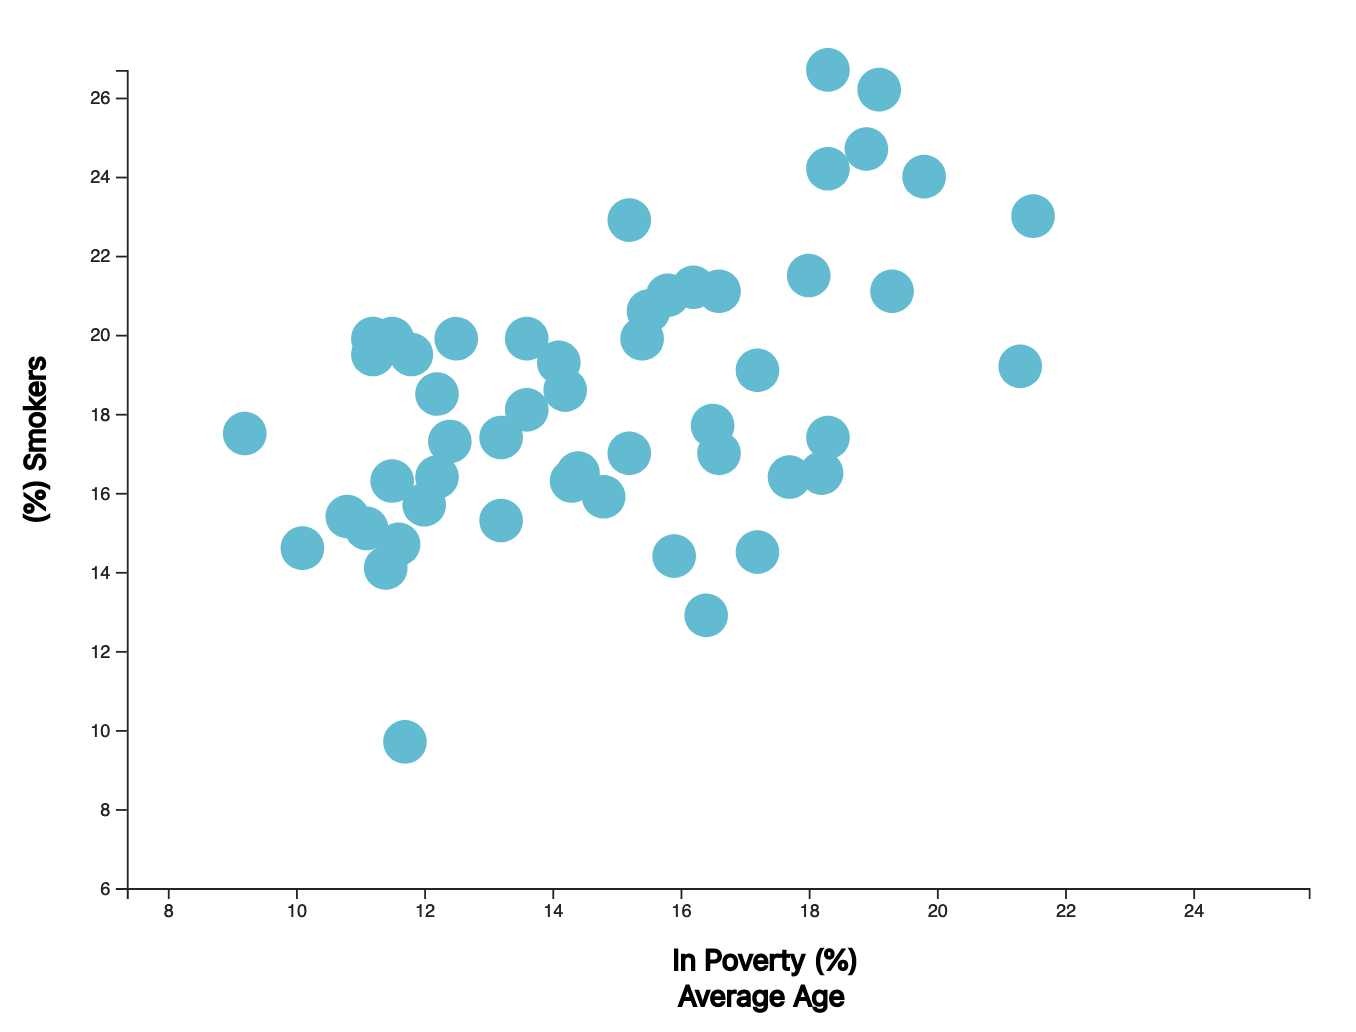
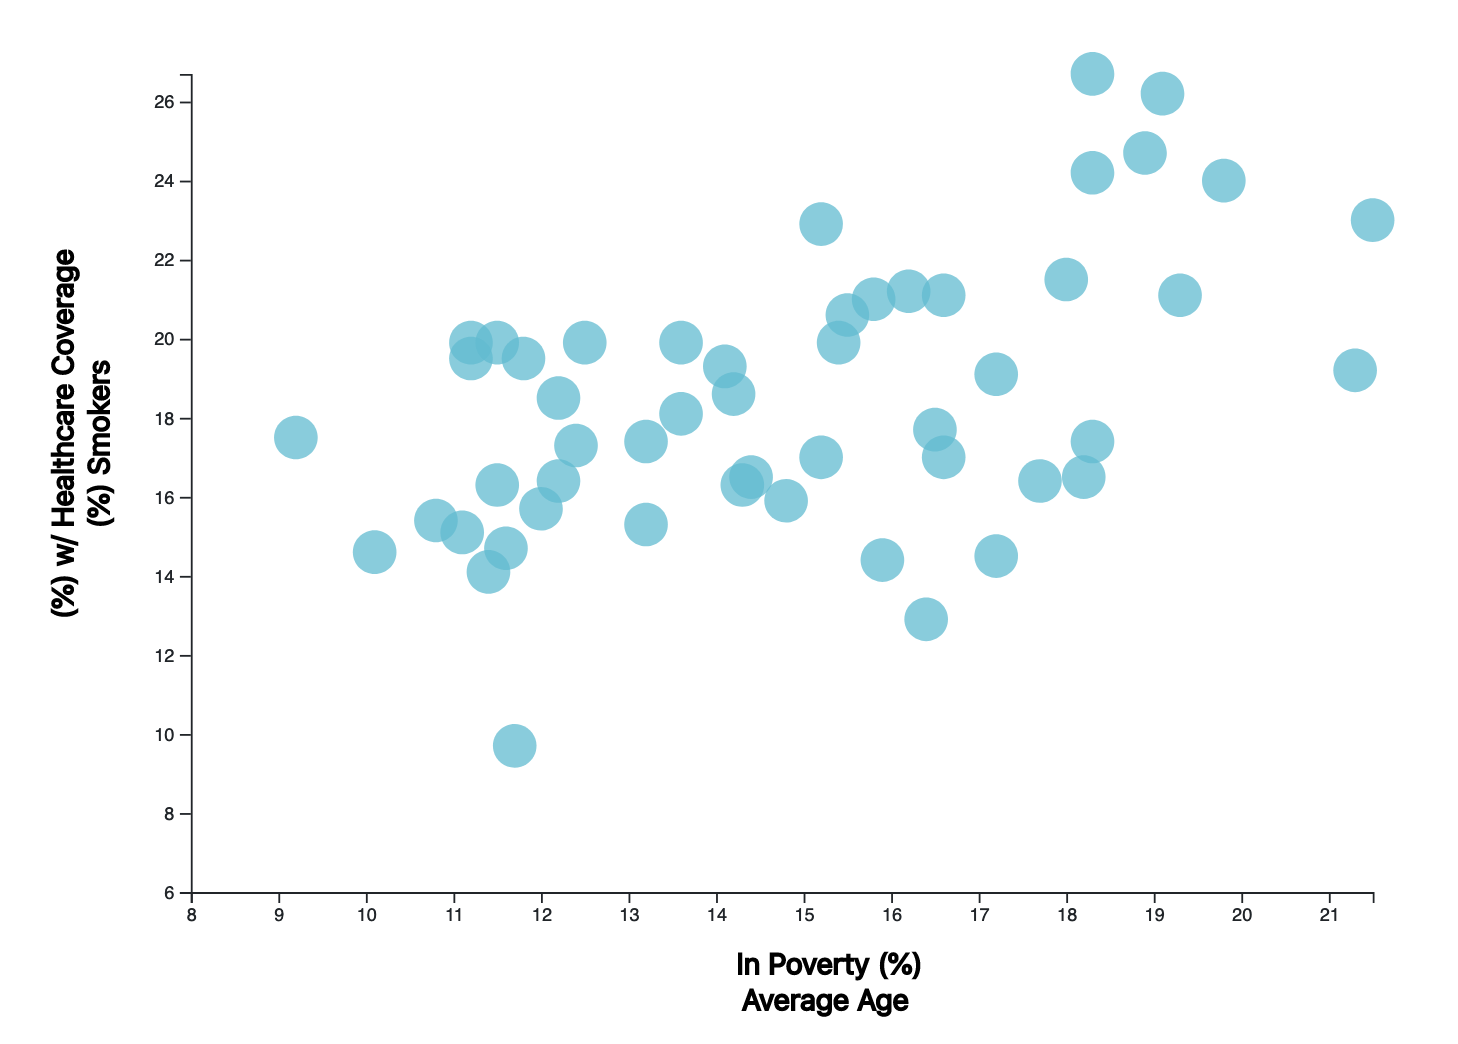
Added images and reformatted the ReadMe file.

diff --git a/D3_data_journalism_bonus_1/index.html b/D3_data_journalism_bonus_1/index.html
@@ -31,34 +31,30 @@
       <div class="row">
         <div class="col-xs-12 col-md-9">
           <div class="article">
-            <h3>Correlations Discovered Between Health Risks and Income</h3>
+            <h3>Correlations Discovered Between Health Risks and Demographic Factors</h3>
             <p>
               In the chart indicated above, we take a closer look at the
-              correlations between smoking and poverty. In particular, we are
-              looking at the corelation between those reported to be living in
-              poverty and those reported to smoke.
+              correlations between health risks and demographic factors. In particular, we are
+              looking at the corelation between the demographic factors of those reported to be living in
+              poverty and age and the health risk factors of the % of those who smoke and the % of those
+              with health insurance.
             </p>
 
             <p>
-              There does appear to be a correlation between the percent of those
-              reported to smoke and the percent living in poverty. As you can
-              see, states with higher reported poverty levels also tend to have
-              a higher number of residents that smoke. Additionally, a third
-              piece of information was used in constructing this chart. The
-              bubble sizes are determined by the reported average income. The
-              smaller the reported income, the smaller the bubble.
+              By clicking on the axis labels, you can easily see the correlation between these factors. The
+              default plot shows the relationship between the percentage of those who smoke compared to the 
+              percentage of those living in poverty. By selecting the average age, we can see the relationship
+              between the percentage of those who smoke and those and the average age of residents living in 
+              that particular state. You can also select the Y axis labels to see the relationship between
+              the percentage of those with insurance as compared to the percentage of those living in poverty
+              or the average age.
             </p>
 
             <p>
-              There are obviuous limitations to this data; however. First, we do
-              not know what they mean when they say "smoke". Are they referring
-              to smoking tobacco or any type of smoking? Also, does this data
-              include the use of any tobacco products such as chewing tobacco,
-              or they only looking at those that smoke cigarrettes. Finally, do
-              these numbers include those that might use electronic cigarrettes.
-              That being said, there does appear to be evidence that those
-              states reporting a higher number of smokers also report higher
-              number of residents living in poverty.
+              So what do you think? Have you clicked on the labels? Did you see any corelations? I saw a few.
+              For example, there definitely appears to be a relationship between the percentage of those who 
+              smoke as compared to those living in poverty. As you can see, smoking percentages are 
+              definitely higher for those states that have a higher poverty rate.
             </p>
           </div>
         </div>

diff --git a/D3_data_journalism_bonus_1/assets/js/app.js b/D3_data_journalism_bonus_1/assets/js/app.js
@@ -323,19 +323,23 @@ d3.csv("assets/data/data.csv").then((data) => {
     .data(data)
     .enter()
     .append("circle")
+    .attr("class", "circle")
     .attr("cx", d =>x(parseFloat(d.poverty)))
     .attr("cy", d =>y(parseFloat(d.smokes)))
     .attr("fill", "#62bbd1")
+    .attr("opacity", "0.75")
     .attr("r", 12);
 
   // circleG.append("circle").attr("r", (d) => size(parseInt(d.income)));
+  
 
-  const circle_text = circleG
+  circle_text = circleG
     .append("text")
     .text((d) => d.abbr)
+    .attr("class", "circleText")
     .attr("stroke", "#FFFFFF")
     .attr("fill", "#FFFFFF")
-    .attr("dy", ".3em")
+    .attr("dy", "10px")
     .attr("text-anchor", "middle");
     });
 

diff --git a/README.md b/README.md
@@ -14,7 +14,17 @@ In addition to comparing the percentage of those that smoked to the percentage o
 For this piece of the exercise, I created a separate directory. I didn't want to take a chance of breaking what I already had working while I was working on this.
 <br/>
 
-For this I attempted to add different labels to the x axis that could be used to transition between different comparisons. I was able to get pieces of this working, but I could not figure out how to do this and keep the labels inside the bubbles. I can see the label text in the console, but for some reason, it is not showing up in the circles. Unfortunately, I do not have time right now to focus on this due to family priorities, but I included it here so I can continue to work on this at a later time. Below are screenshots of what I was able to get to work. The first screenshot is of the image shown above (without the labels), and it will transition into the next image which compares % smokers to average age once the user selects.
+For this I attempted to add different labels to the x axis and y axis that could be used to transition between different comparisons. I was able to get the transition pieces of this working, but I could not figure out how to do this and keep the labels inside the bubbles. I can see the label text in the console, but for some reason, it is not showing up in the circles. Unfortunately, I do not have time right now to focus on this due to family priorities, but I included it here so I can continue to work on this at a later time. Below are screenshots of what I was able to get to work. 
 
+The first screenshot is of the image shown above (without the labels), and it will transition into the next image which compares % smokers to average age once the user selects "Average Age". I also included healthcare percentage on the y axis. The results of this can be seen in the final two screenshots.
+<br/>
+<br/>
+
+### % Smokers vs. Poverty %
 ![Project Bonus Screen Shot 1](images/d3_bonus_poverty_smokers.png)
-![Project Bonus Screen Shot 2](images/d3_bonus_age_smokers.png)
+### % Smokers vs. Age
+![Project Bonus Screen Shot 2](images/d3_bonus_smokers_age.png)
+### Healthcare % vs. Poverty %
+![Project Bonus Screen Shot 2](images/d3_bonus_healthcare_poverty.png)
+### Healthcare % vs. Age
+![Project Bonus Screen Shot 2](images/d3_bonus_healthcare_age.png)
